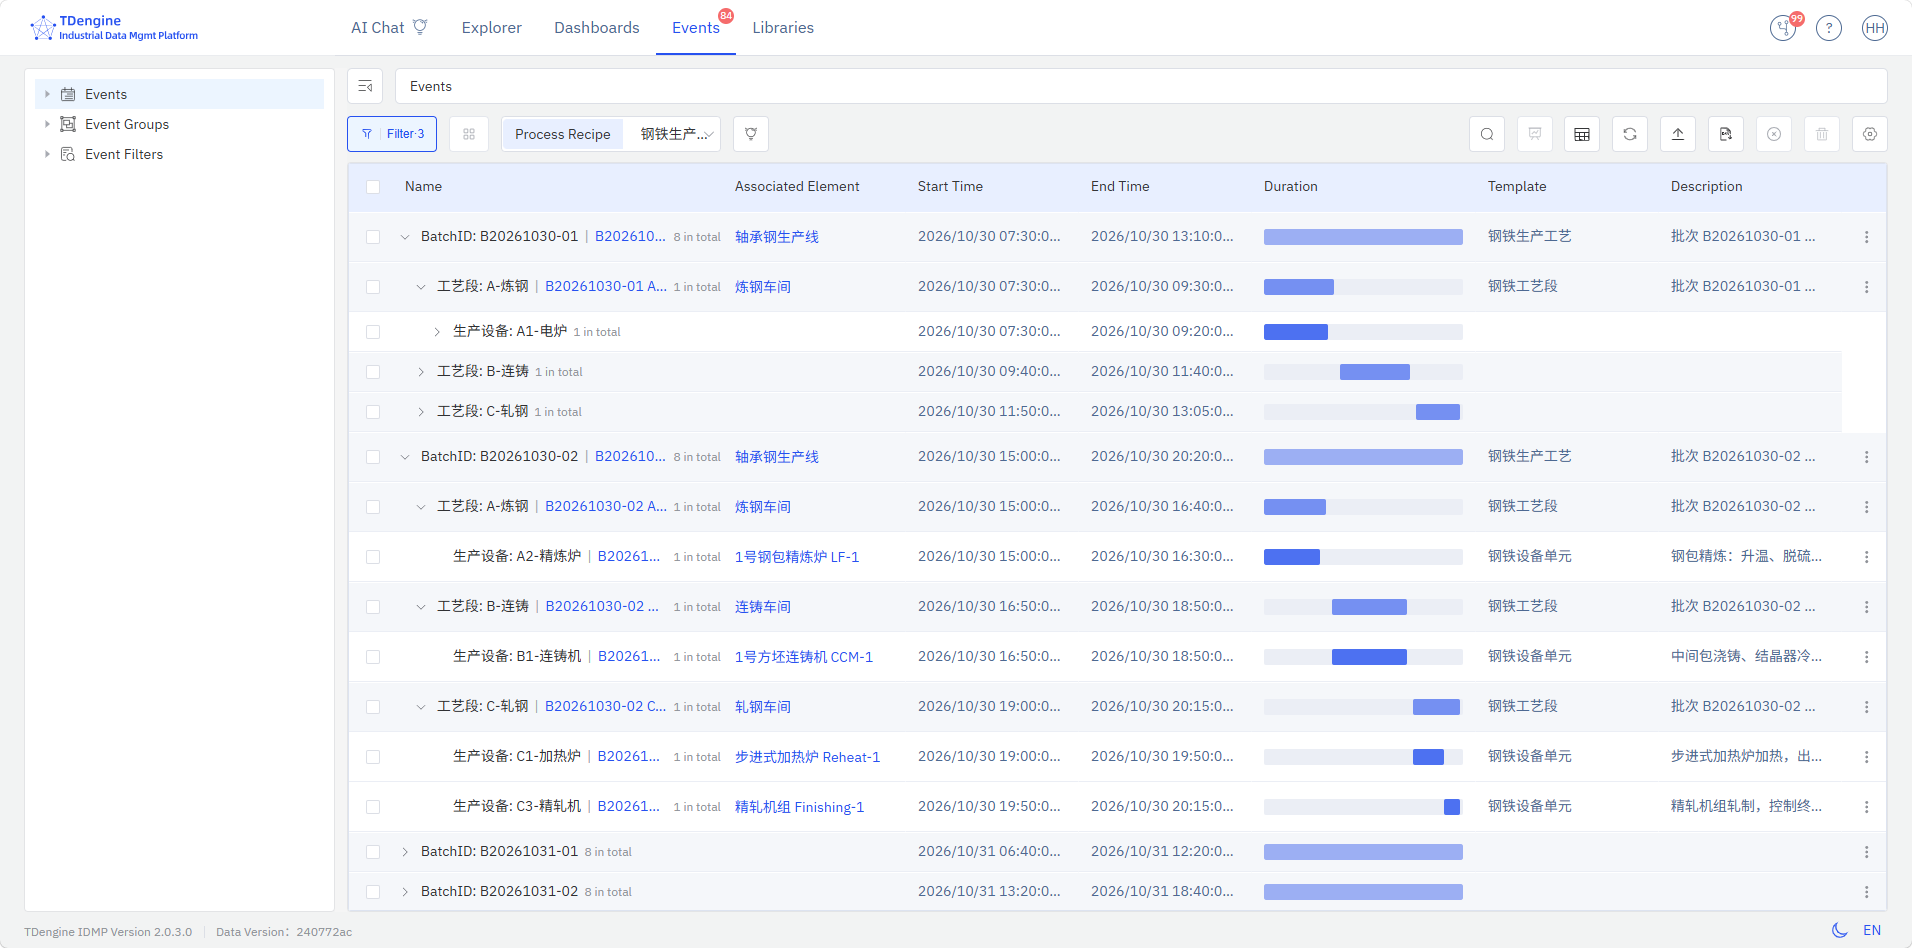
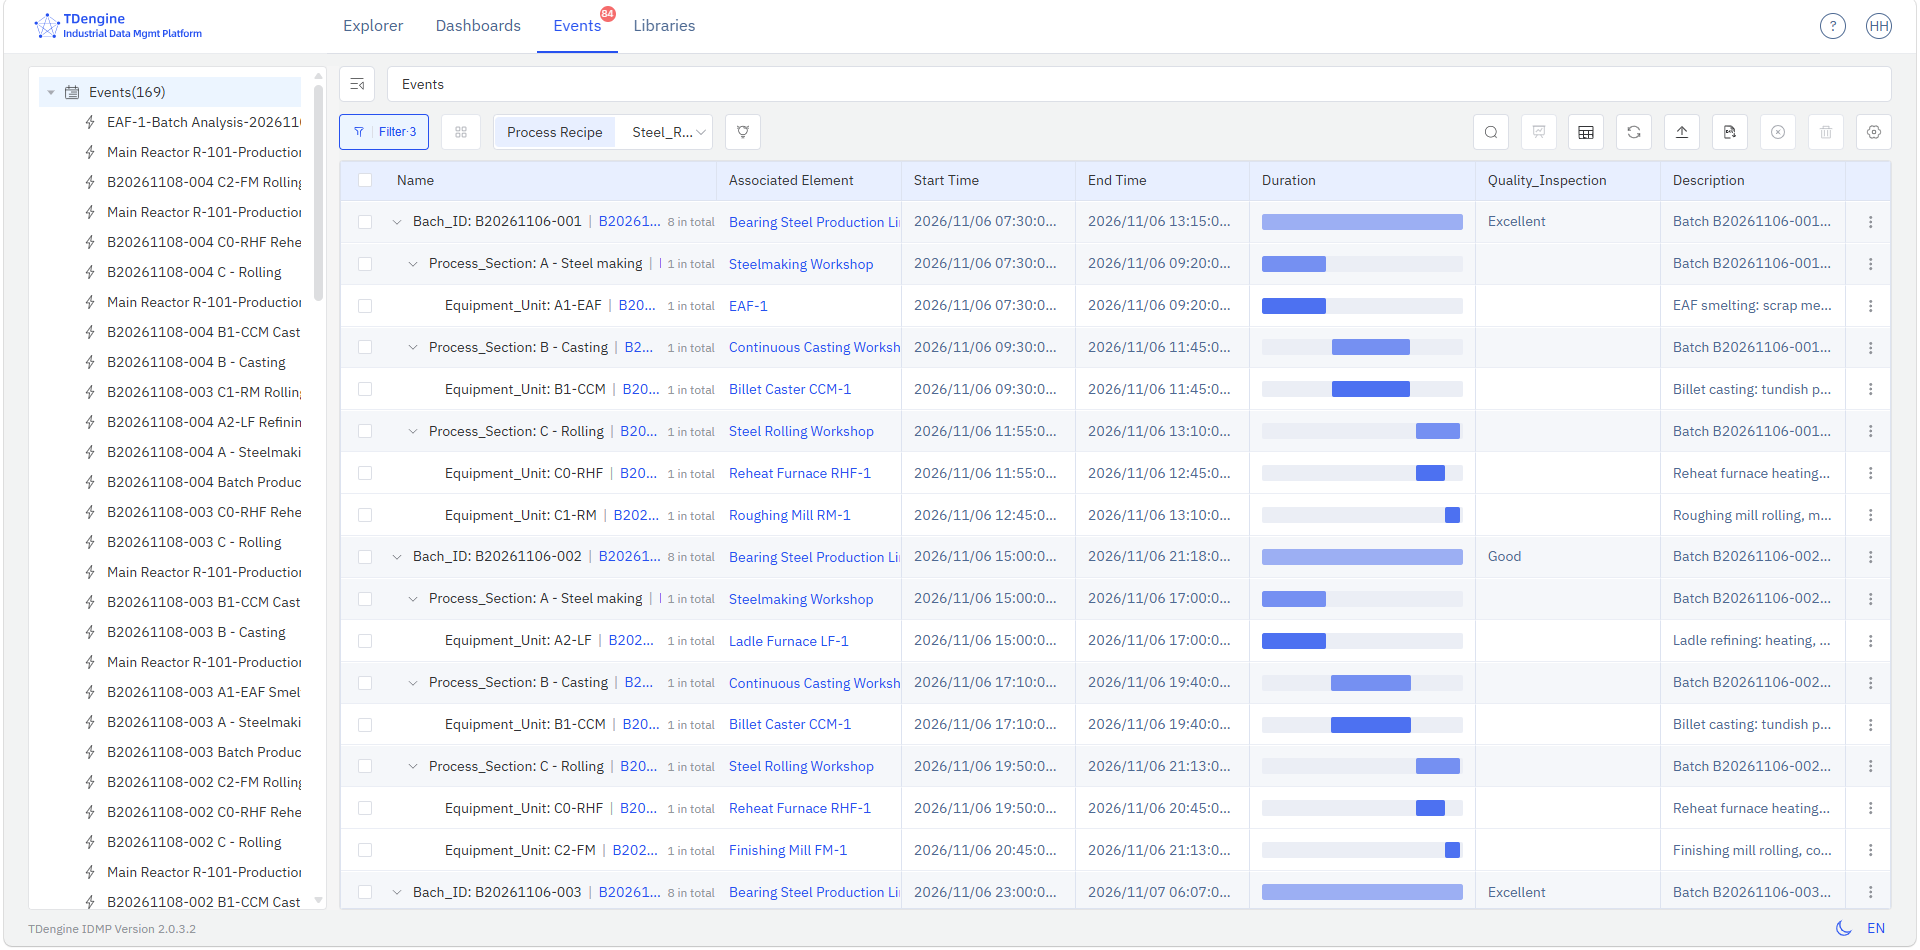
chore(docs): bootstrap GitLab subtree

diff --git a/i18n/en/docusaurus-plugin-content-docs/current/21-release-history/2.0.3.0.md b/i18n/en/docusaurus-plugin-content-docs/current/21-release-history/2.0.3.0.md
@@ -49,6 +49,10 @@ AI and Agent Runtime, Data Ingestion and Attribute Management, Elements and Indu
 1. Add the Diagnosis model type for whole-curve scoring and anomaly ranking across multiple elements sharing the same metric; models can be deployed on TDgpt and invoked from IDMP, with a dataset_type selector in dataset creation.
 1. Publish OpenAI Codex plugin for IDMP.
 1. Added name search to the event template list page, making it easy to locate templates among many.
+1. Added Oracle as a supported third-party data source (Oracle 11g, 11.0.2.4 and later).
+1. Column headers in IDMP list pages can now be reordered.
+1. Event search results can now be sorted.
+1. Added a management interface for asset data import tasks, supporting viewing, deleting, stopping, and pausing/resuming tasks.
 
 ## Improvements
 
@@ -68,6 +72,7 @@ AI and Agent Runtime, Data Ingestion and Attribute Management, Elements and Indu
 1. Version control now supports undoing committed changes that have not yet been published.
 1. Version control user branch names changed from User plus a UUID to the user name.
 1. The 6-hour full reconcile no longer repeatedly sends ALTER COLUMN ref messages for ans_ virtual tables.
+1. Improved the performance and observability of bulk element import via OPC, with live progress visibility and the ability to terminate tasks.
 
 ## Bug Fixes
 
@@ -96,3 +101,19 @@ AI and Agent Runtime, Data Ingestion and Attribute Management, Elements and Indu
 1. Fixed unfiltered virtual-supertable full queries being retried repeatedly on timeout and inflating memory — heavy SQL verification now executes exactly once.
 1. Fixed SMTP test emails failing in mail routing when the template name is null — test emails now send successfully.
 1. Fixed data backup showing no progress for extended periods.
+1. Fixed element notification rules skipping automatic delivery on H2-based deployments (Docker Compose default) caused by a MySQL-specific operator unsupported by H2 — automatic notifications are delivered again.
+1. Restore reference reading and script execution for user-uploaded skills in both the root agent and sub-agents.
+1. Fixed missing or empty trend lines in the batch analysis workbench when multiple batches were added concurrently — each batch now keeps its own attribute configuration and renders its curves correctly.
+1. Fixed audit log timestamps displaying incorrectly — times are now stored as timestamps and rendered in the browser's local timezone.
+1. Fixed contact points being visible only to their creators — the notification channel list and rule editor now show all contact points, while per-user default contact points remain isolated.
+1. Fixed the event template list pagination total exceeding the visible row count by one (demo template indexed by mistake), eliminating blank rows on the last page.
+1. Fixed high CPU usage caused by table-creation events retrying endlessly when the underlying database or analysis table no longer exists — such errors now trigger a circuit breaker.
+1. The AI service now starts on deployments whose data directory path contains an administrator-created symbolic link.
+1. Fixed MD file import failures with "413 Request Entity Too Large" when uploading files around 60M — the Nginx body size limit is now raised to 1G.
+1. A single custom skill with a malformed SKILL.md header no longer makes every custom skill unreadable.
+1. Fixed external data source connections (e.g., SQL Server) disappearing from the connection list when TDengine-specific permissions were configured — connections of all types now display correctly.
+1. Fixed attributes with granted permissions showing a "no permission" error when their value was null — permission interception is relaxed for non-TDengine connections.
+1. Fixed SCADA JSON import failing with an "element ID not found" error.
+1. Fixed element deletion failing with a "workspace is locked" error caused by the root-node marker — element deletion now works normally.
+1. Fixed child element instances not following an element template's data-reference change to SQL Server and being impossible to edit — elements now support custom connection settings.
+1. Fixed elements imported via MD modeling not following the declaration order in the file — element IDs are now assigned in declaration order.

diff --git a/i18n/en/docusaurus-plugin-content-docs/current/06-events/09-batch-analysis.md b/i18n/en/docusaurus-plugin-content-docs/current/06-events/09-batch-analysis.md
@@ -213,6 +213,10 @@ After importing events, you can group them by recipe in the event list and add o
    - Comparison charts for element attributes referenced by events associated with each stage.
 6. Return to the event list and add other batches from the same recipe in the same way. The existing workbench is reused and brought into focus, and the new batch is added to the current charts.
 
+The following figure shows an example of the event list based on a steel production recipe.
+
+![Recipe-grouped event list for a steel production recipe](../images/06-batch-list.png)
+
 Note:
 
 - **Add to Batch Analysis Workbench** is available only on **batch rows** in recipe grouping mode. It is not available on ordinary event rows or other levels.
@@ -222,7 +226,9 @@ Note:
 
 ## 6.9.6 Using the Batch Analysis Workbench
 
-The workbench organizes comparison charts by process stage and provides stage splitting, attribute management, detail views, and panel saving.
+The workbench organizes comparison charts by process stage and provides stage splitting, attribute management, detail views, and panel saving. The following figure shows an example of the Batch Analysis Workbench for a steel production scenario.
+
+![Batch Analysis Workbench](../images/06-batch-workbench.png)
 
 ### 6.9.6.1 Page Layout
 

diff --git a/docs/06-events/09-batch-analysis.md b/docs/06-events/09-batch-analysis.md
@@ -48,7 +48,7 @@ sidebar_label: 批次分析工作台
 
 按照以下步骤创建配方并填写基本信息：
 
-1. 进入**基础库 → 事件模板** ，创建批次的基础事件模板，包括顶层的批次事件，以及不同生产环节的过程事件。
+1. 进入**基础库 → 事件模板**，创建批次的基础事件模板，包括顶层的批次事件，以及不同生产环节的过程事件。
 2. 进入**基础库 → 工艺配方**。
 3. 在配方列表右上角单击**新建**图标；列表为空时，也可以单击空态区域中的**新建工艺配方**。
 4. 填写工艺配方的基本信息：
